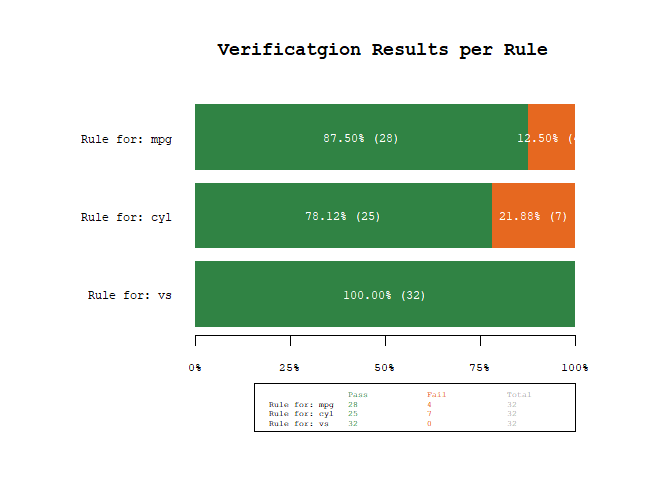
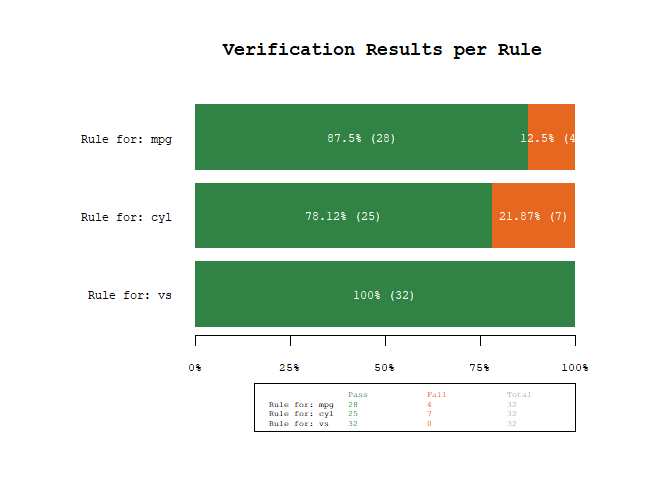
add filter_fails functionality + test; data vis rounds down (eg 99.999999 -> 99.99 not 100)

diff --git a/README.md b/README.md
@@ -69,12 +69,12 @@ rules
 # check if the data matches our rules
 res <- check_data(mtcars, rules)
 res
-#>             name                expr tests pass fail warn error              time
-#> 1: Rule for: mpg mpg > 10 & mpg < 30    32   28    4            0.0053970814 secs
-#> 2: Rule for: cyl    cyl %in% c(4, 8)    32   25    7            0.0036909580 secs
-#> 3:  Rule for: vs     vs %in% c(0, 1)    32   32    0            0.0003919601 secs
+#>             name                expr allow_na negate tests pass fail warn error             time
+#> 1: Rule for: mpg mpg > 10 & mpg < 30    FALSE  FALSE    32   28    4            0.007985115 secs
+#> 2: Rule for: cyl    cyl %in% c(4, 8)    FALSE  FALSE    32   25    7            0.003337860 secs
+#> 3:  Rule for: vs     vs %in% c(0, 1)     TRUE  FALSE    32   32    0            0.000428915 secs
 
-# plot the results
+# plot the results to get a better understanding of which rules are most often violated
 plot_res(res)
 ```
 
@@ -216,22 +216,29 @@ ds <- open_dataset("nyc-taxi-data/")
 # perform the data validation check
 res <- check_data(ds, rules)
 res
-#> # A tibble: 3 × 8
-#>   name                      expr                               tests    pass  fail warn  error time 
-#>   <chr>                     <chr>                              <int>   <int> <int> <chr> <chr> <drt>
-#> 1 Rule for: passenger_count passenger_count >= 0 & passenge… 8760687 8760687     0 ""    ""    0.80…
-#> 2 Rule for: trip_distance   trip_distance >= 0 & trip_dista… 8760687 8760686     1 ""    ""    0.44…
-#> 3 Rule for: payment_type    payment_type %in% c(0, 1, 2, 3,… 8760687 8760687     0 ""    ""    0.36…
+#> # A tibble: 3 × 10
+#>   name                      expr              allow…¹ negate   tests    pass  fail warn  error time 
+#>   <chr>                     <chr>             <lgl>   <lgl>    <int>   <int> <int> <chr> <chr> <drt>
+#> 1 Rule for: passenger_count passenger_count … FALSE   FALSE  8760687 8760687     0 ""    ""    0.56…
+#> 2 Rule for: trip_distance   trip_distance >=… FALSE   FALSE  8760687 8760686     1 ""    ""    0.43…
+#> 3 Rule for: payment_type    payment_type %in… FALSE   FALSE  8760687 8760687     0 ""    ""    0.36…
+#> # … with abbreviated variable name ¹allow_na
+
+plot_res(res)
 ```
+
+<img src="man/figures/README-taxi3-1.png" width="100%" />
 
 Using the power of `arrow`, we were able to scan 8+mln observations for
 three rules in about 1.5 seconds (YMMV). As we can see from the results,
-there is one unexpected value, lets quickly investigate
+there is one unexpected value, lets quickly investigate using the
+\[`filter_fails()`\] function, which filters a dataset for the failed
+rule matches
 
 ``` r
-ds |> 
-  dplyr::filter(trip_distance < 0 | trip_distance > 1000) |> 
-  dplyr::collect() |> 
+res |>
+  filter_fails(ds) |> 
+  # only select a couple of variables for brevity
   dplyr::select(tpep_pickup_datetime, tpep_dropoff_datetime, trip_distance)
 #> # A tibble: 1 × 3
 #>   tpep_pickup_datetime tpep_dropoff_datetime trip_distance
@@ -269,12 +276,12 @@ rules <- ruleset(
 # check rules
 res <- check_data(tbl, rules)
 res
-#> # A tibble: 3 × 8
-#>   name          expr                tests  pass  fail warn  error time           
-#>   <chr>         <chr>               <dbl> <dbl> <dbl> <chr> <chr> <drtn>         
-#> 1 Rule for: mpg mpg > 10 & mpg < 40    32    32     0 ""    ""    0.05177593 secs
-#> 2 Rule for: cyl cyl %in% c(4, 6, 8)    32    32     0 ""    ""    0.03678417 secs
-#> 3 Rule for: vs  vs %in% c(0, 1)        32    32     0 ""    ""    0.03052998 secs
+#> # A tibble: 3 × 10
+#>   name          expr                allow_na negate tests  pass  fail warn  error time           
+#>   <chr>         <chr>               <lgl>    <lgl>  <dbl> <dbl> <dbl> <chr> <chr> <drtn>         
+#> 1 Rule for: mpg mpg > 10 & mpg < 40 FALSE    FALSE     32    32     0 ""    ""    0.04341698 secs
+#> 2 Rule for: cyl cyl %in% c(4, 6, 8) FALSE    FALSE     32    32     0 ""    ""    0.03063011 secs
+#> 3 Rule for: vs  vs %in% c(0, 1)     TRUE     FALSE     32    32     0 ""    ""    0.03730798 secs
 
 # lastly disconnect from the database again
 dbDisconnect(con, shutdown = TRUE)
